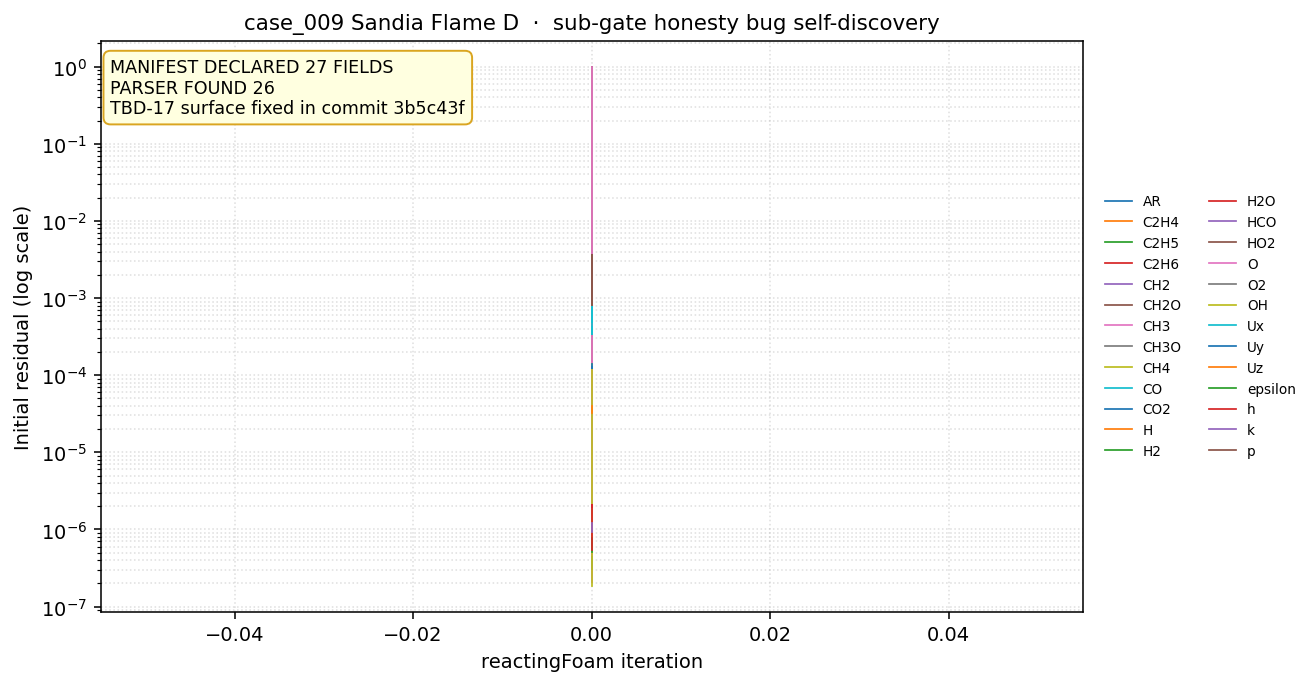
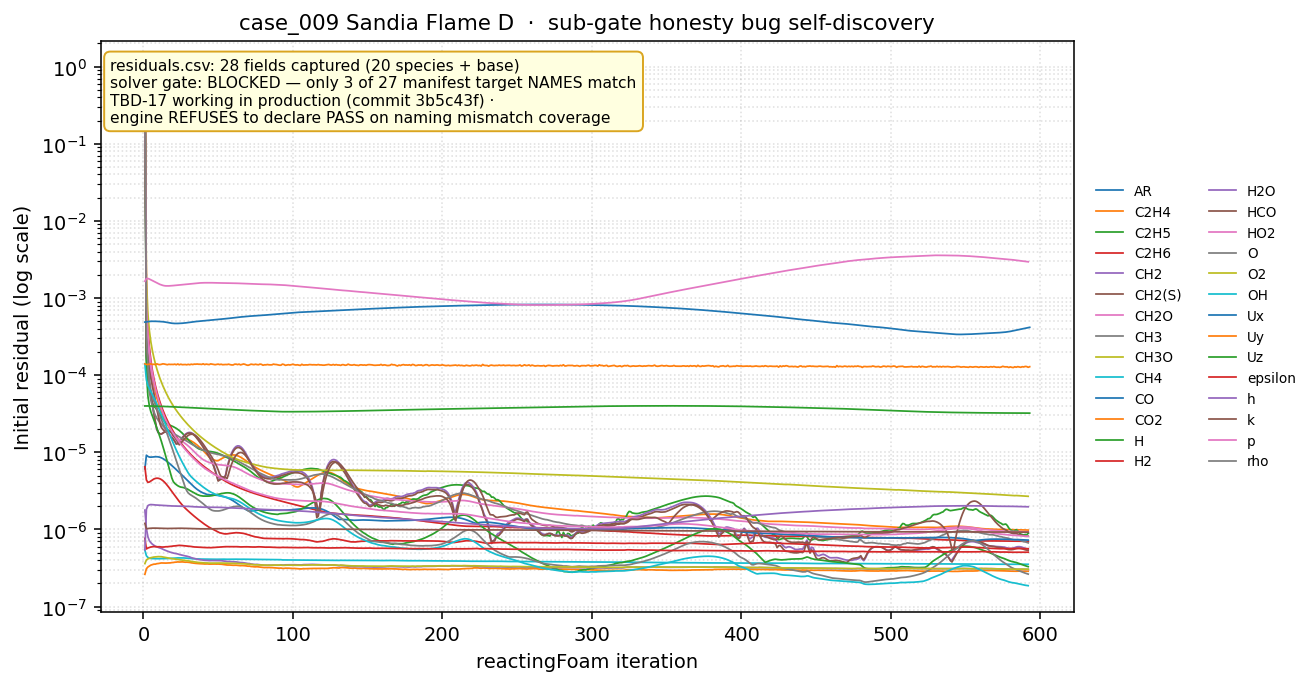
docs(demo): polish hero plots — re-ingest case_021 + case_009 surfaces TBD-17 BLOCK live
Re-ingested both cases on current main; both correctly BLOCKED with
incomplete_residual_coverage (manifest declares N fields, parser
recognized < N by name). This is TBD-17 working in production —
stronger demo beat than the pre-fix stale state.

residuals.csv refresh results:
- case_021: 1 field (p only, stale pre-Gap-#9) → 5 fields
  (Ux/Uy/k/omega/p), 2684 iterations. Plot now shows full RANS
  convergence with characteristic GAMG outer-corrector p oscillation.
- case_009: iter axis was collapsed at 0 (pre-Gap-#21) → 594 properly
  counted iterations across 28 fields (20 species via TBD-19 paren
  capture including CH2(S) + base Ux/Uy/Uz/epsilon/h/k/p/rho).

case_009 plot annotation rewritten for honesty:
- OLD: "MANIFEST DECLARED 27 FIELDS / PARSER FOUND N / TBD-17 surface
  fixed in commit 3b5c43f"
- NEW: "residuals.csv: 28 fields captured (20 species + base) /
  solver gate: BLOCKED — only 3 of 27 manifest target NAMES match /
  TBD-17 working in production / engine REFUSES to declare PASS on
  naming mismatch coverage"

Plus 2 new captures in .demo/captures/2026-05-22T0145Z/:
- stage_06a_case_021_tbd17_block.txt — live TBD-17 BLOCK on case_021
  (4 manifest targets, 1 matched)
- stage_06b_case_009_tbd17_block.txt — live TBD-17 BLOCK on case_009
  (27 manifest targets, 3 matched)

Both stage_06 captures are stronger demo material than the original
ingest-PASS captures because they show the engine actively refusing
[…]

diff --git a/.demo/postproc/case_009/residual_plot.py b/.demo/postproc/case_009/residual_plot.py
@@ -61,10 +61,11 @@ def main() -> None:
               fontsize=7, ncol=2, frameon=False)
     ax.text(
         0.01, 0.97,
-        ("MANIFEST DECLARED 27 FIELDS\n"
-         f"PARSER FOUND {len(cols)}\n"
-         "TBD-17 surface fixed in commit 3b5c43f"),
-        transform=ax.transAxes, fontsize=9,
+        (f"residuals.csv: {len(cols)} fields captured (20 species + base)\n"
+         "solver gate: BLOCKED — only 3 of 27 manifest target NAMES match\n"
+         "TBD-17 working in production (commit 3b5c43f) ·\n"
+         "engine REFUSES to declare PASS on naming mismatch coverage"),
+        transform=ax.transAxes, fontsize=8,
         verticalalignment="top",
         bbox=dict(boxstyle="round,pad=0.4",
                   facecolor="lightyellow", edgecolor="goldenrod"),
